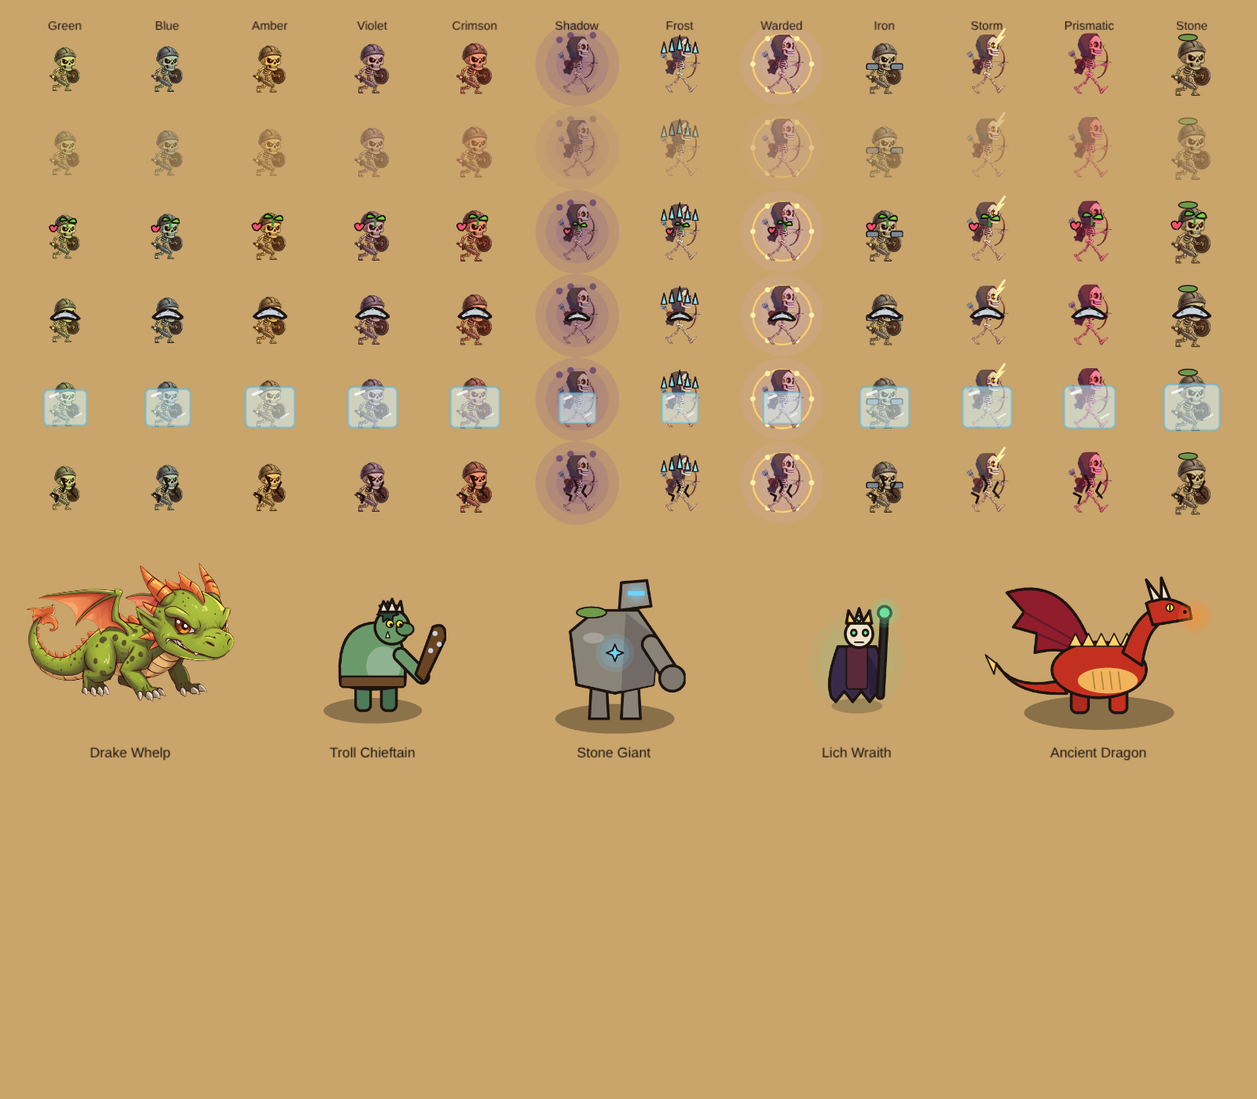
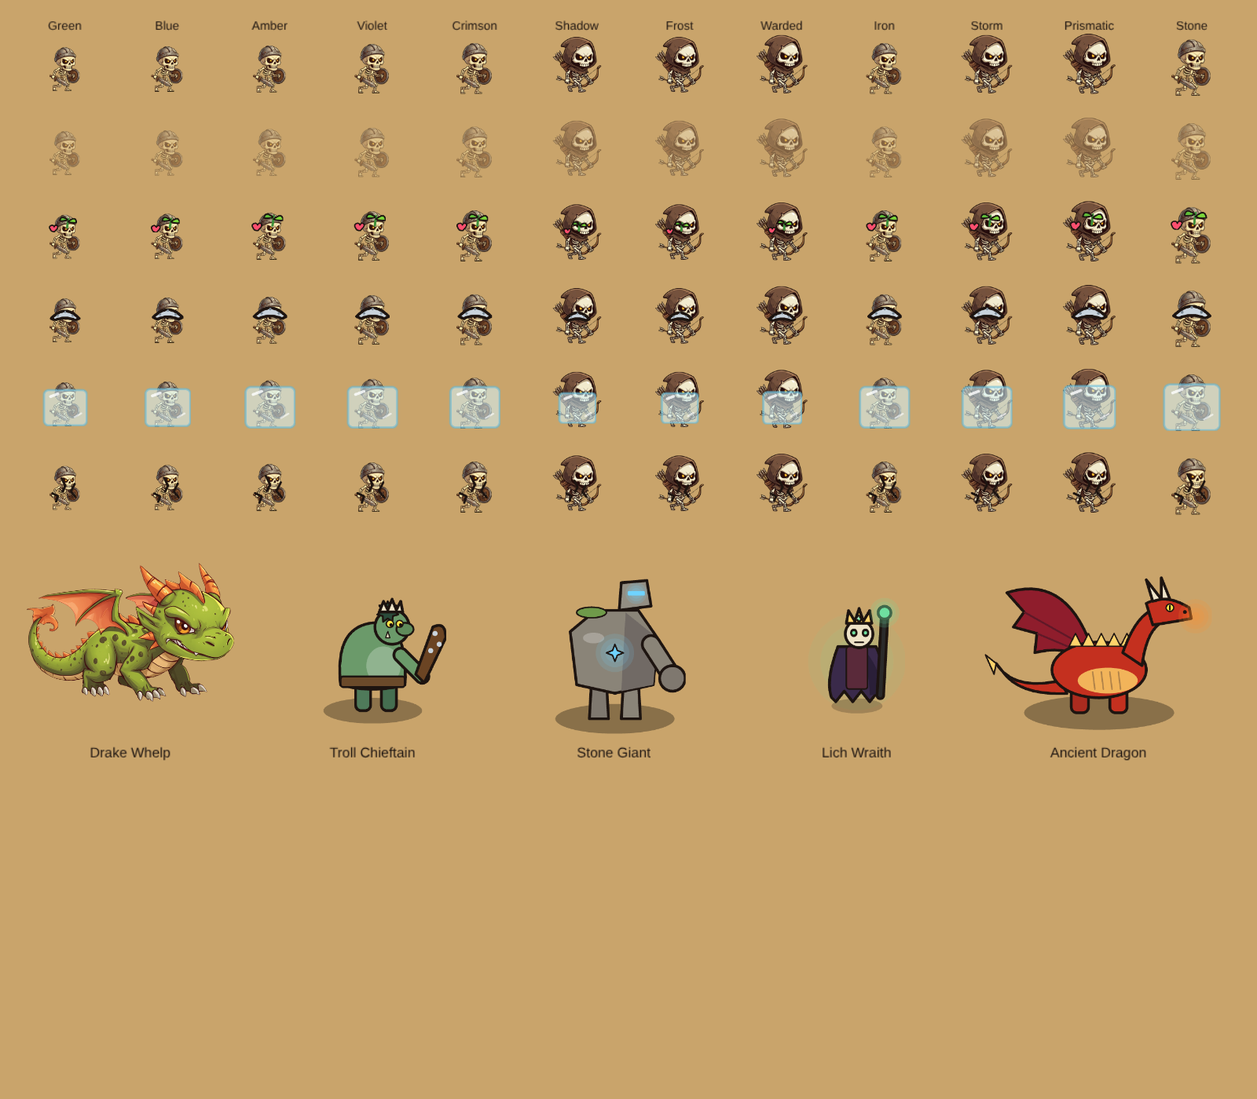
Use the ElevenLabs hooded archer and drop per-layer colours and marks
- skel_archer is now the 6-frame ElevenLabs strip (same cartoon finish as
  the warrior); the Canva archer is kept as a spare
- Layer colours and immunity marks are off: every skeleton looks like its
  chassis and layers differ only by size. SHOW_LAYER_STYLE in painted.ts
  brings the old ladder and marks back; simulation unchanged
- Tests follow the flag; docs and phone-size previews updated

Claude-Session: https://claude.ai/code/session_01EV4YkKLuxJjZibNcnGfAn5

diff --git a/src/render/art/painted.ts b/src/render/art/painted.ts
@@ -116,23 +116,37 @@ export interface EnemyLook {
 }
 
 /**
+ * Whether layers get their own colour and immunity mark. Off by request: every skeleton looks like
+ * its chassis (sword-and-shield or archer) and the layers differ only by size. Flip to `true` to
+ * bring back the colour ladder and the shadow/frost/ward/iron/storm/prism/stone marks below.
+ */
+export const SHOW_LAYER_STYLE = false;
+
+const look = (chassis: EnemyChassis, height: number, tint: number, mark?: EnemyMark): EnemyLook => ({
+  chassis,
+  height,
+  tint: SHOW_LAYER_STYLE ? tint : 0xffffff,
+  ...(SHOW_LAYER_STYLE && mark ? { mark } : {}),
+});
+
+/**
  * Regular enemies as skeletons. Warriors (sword and shield) are the main line; archers carry the
- * magical and immune layers. Layer colour follows the old slime ladder so players keep their
- * muscle memory; size grows with the layer too.
+ * magical and immune layers. When `SHOW_LAYER_STYLE` is on, layer colour follows the old slime
+ * ladder so players keep their muscle memory; size grows with the layer either way.
  */
 export const ENEMY_LOOKS: Partial<Record<string, EnemyLook>> = {
-  green: { chassis: 'skeleton_warrior', height: 56, tint: 0xdbf7c6 },
-  blue: { chassis: 'skeleton_warrior', height: 58, tint: 0xb8deff },
-  amber: { chassis: 'skeleton_warrior', height: 60, tint: 0xffe1a0 },
-  violet: { chassis: 'skeleton_warrior', height: 63, tint: 0xdec1ff },
-  crimson: { chassis: 'skeleton_warrior', height: 65, tint: 0xffb0b0 },
-  shadow: { chassis: 'skeleton_archer', height: 60, tint: 0xc4b7de, mark: 'shadow' },
-  frost: { chassis: 'skeleton_archer', height: 60, tint: 0xe7f7ff, mark: 'frost' },
-  warded: { chassis: 'skeleton_archer', height: 63, tint: 0xe7cfff, mark: 'ward' },
-  iron: { chassis: 'skeleton_warrior', height: 65, tint: 0xd6dae0, mark: 'iron' },
-  storm: { chassis: 'skeleton_archer', height: 63, tint: 0xf4f4f4, mark: 'bolt' },
-  prismatic: { chassis: 'skeleton_archer', height: 65, tint: 0xffa0d0, mark: 'prism' },
-  stone: { chassis: 'skeleton_warrior', height: 72, tint: 0xd9d6cf, mark: 'stone' },
+  green: look('skeleton_warrior', 56, 0xdbf7c6),
+  blue: look('skeleton_warrior', 58, 0xb8deff),
+  amber: look('skeleton_warrior', 60, 0xffe1a0),
+  violet: look('skeleton_warrior', 63, 0xdec1ff),
+  crimson: look('skeleton_warrior', 65, 0xffb0b0),
+  shadow: look('skeleton_archer', 60, 0xc4b7de, 'shadow'),
+  frost: look('skeleton_archer', 60, 0xe7f7ff, 'frost'),
+  warded: look('skeleton_archer', 63, 0xe7cfff, 'ward'),
+  iron: look('skeleton_warrior', 65, 0xd6dae0, 'iron'),
+  storm: look('skeleton_archer', 63, 0xf4f4f4, 'bolt'),
+  prismatic: look('skeleton_archer', 65, 0xffa0d0, 'prism'),
+  stone: look('skeleton_warrior', 72, 0xd9d6cf, 'stone'),
 };
 
 /** Arrows were painted pointing up-right at ~44 degrees; this turns them to point along +x. */

diff --git a/tests/unit/walkCycle.test.ts b/tests/unit/walkCycle.test.ts
@@ -1,6 +1,6 @@
 import { describe, expect, it } from 'vitest';
 import { ENEMIES } from '../../src/core/data/enemies';
-import { ENEMY_LOOKS, PAINTED_CHASSIS } from '../../src/render/art/painted';
+import { ENEMY_LOOKS, PAINTED_CHASSIS, SHOW_LAYER_STYLE } from '../../src/render/art/painted';
 import { cyclesPerSecond, hueTint, mulTint, stepBob, walkFrame } from '../../src/render/walkCycle';
 
 describe('walk cycle', () => {
@@ -51,9 +51,26 @@ describe('painted enemy looks', () => {
     }
   });
 
-  it('keeps layer colours distinct so tiers stay readable', () => {
-    const tints = Object.values(ENEMY_LOOKS).map((l) => l!.tint);
-    expect(new Set(tints).size).toBe(tints.length);
+  it('keeps layer colours distinct when layer styling is on, and plain when it is off', () => {
+    const looks = Object.values(ENEMY_LOOKS) as NonNullable<(typeof ENEMY_LOOKS)[string]>[];
+    if (SHOW_LAYER_STYLE) {
+      const tints = looks.map((l) => l.tint);
+      expect(new Set(tints).size).toBe(tints.length);
+    } else {
+      for (const l of looks) {
+        expect(l.tint).toBe(0xffffff);
+        expect(l.mark).toBeUndefined();
+      }
+    }
+  });
+
+  it('still grows with the layer so size is the remaining tier cue', () => {
+    const h = (id: string): number => ENEMY_LOOKS[id]!.height;
+    expect(h('green')).toBeLessThan(h('blue'));
+    expect(h('blue')).toBeLessThan(h('amber'));
+    expect(h('amber')).toBeLessThan(h('violet'));
+    expect(h('violet')).toBeLessThan(h('crimson'));
+    expect(h('crimson')).toBeLessThan(h('stone'));
   });
 });
 

diff --git a/docs/ART_PROGRESS.md b/docs/ART_PROGRESS.md
@@ -13,17 +13,17 @@ Plan: `/root/.claude/plans/declarative-napping-pinwheel.md` (merged vertical-sli
 
 ## Spend (cap $18; price is last observed, not guaranteed)
 
-| #                                                                                                                                                                                                                                                                                               | What                                                           | Model                                       | Cost               | Result                                                                                                                        |
-| ----------------------------------------------------------------------------------------------------------------------------------------------------------------------------------------------------------------------------------------------------------------------------------------------- | -------------------------------------------------------------- | ------------------------------------------- | ------------------ | ----------------------------------------------------------------------------------------------------------------------------- |
-| 1                                                                                                                                                                                                                                                                                               | Knight walk strip spike (unsanitised sheet ref)                | gemini-3-pro-image                          | $0.183             | 6 consistent frames; parked in `art/spike/`, not shipped                                                                      |
-|                                                                                                                                                                                                                                                                                                 | 2                                                              | Ranger attack strip (empty hands, 6 frames) | gemini-3-pro-image | $0.183                                                                                                                        | usable; identity/outline consistent |
-| 3                                                                                                                                                                                                                                                                                               | Ranger gear sheet A (3 bows, 3 quivers)                        | gemini-3-pro-image                          | $0.183             | clean, cut to `ranger_gearA`                                                                                                  |
-| 4                                                                                                                                                                                                                                                                                               | Ranger gear sheet B (2 headdresses, 3 arrows, mantle, harness) | gemini-3-pro-image                          | $0.183             | clean, cut to `ranger_gearB` (arrows painted diagonal, corrected in code)                                                     |
-| -                                                                                                                                                                                                                                                                                               | Ranger companions sheet                                        | -                                           | $0                 | **rejected: 429 free_tier_image_limit_reached** (not charged, not retried)                                                    |
-| 5                                                                                                                                                                                                                                                                                               | Skeleton warrior walk strip (text only)                        | gemini-3-pro-image                          | $0.122             | style good, layout wrong (4+2 rows, bald frame); raw kept in `art/spike/`                                                     |
-| 6                                                                                                                                                                                                                                                                                               | Skeleton warrior walk strip retry (frame 2 as reference)       | gemini-3-pro-image                          | $0.183             | usable; shipped as `skel_warrior`                                                                                             |
-| 7                                                                                                                                                                                                                                                                                               | Skeleton archer strip (text only, 2x3 grid)                    | gemini-3-pro-image                          | $0.122             | after the daily reset; 6 consistent frames, nicer style match than Canva; kept as a **spare** (`art/spike/skel_archer_alt.*`) |
-| 8                                                                                                                                                                                                                                                                                               | Skeleton archer, single pose (Canva Magic Design)              | Canva                                       | cost [U]           | one pose x4 copies; **shipped** as `skel_archer` (1 frame) and animated in code with a step bob                               |
+| #                                                                                                                                                                                                                                                                                               | What                                                           | Model                                       | Cost               | Result                                                                                                            |
+| ----------------------------------------------------------------------------------------------------------------------------------------------------------------------------------------------------------------------------------------------------------------------------------------------- | -------------------------------------------------------------- | ------------------------------------------- | ------------------ | ----------------------------------------------------------------------------------------------------------------- |
+| 1                                                                                                                                                                                                                                                                                               | Knight walk strip spike (unsanitised sheet ref)                | gemini-3-pro-image                          | $0.183             | 6 consistent frames; parked in `art/spike/`, not shipped                                                          |
+|                                                                                                                                                                                                                                                                                                 | 2                                                              | Ranger attack strip (empty hands, 6 frames) | gemini-3-pro-image | $0.183                                                                                                            | usable; identity/outline consistent |
+| 3                                                                                                                                                                                                                                                                                               | Ranger gear sheet A (3 bows, 3 quivers)                        | gemini-3-pro-image                          | $0.183             | clean, cut to `ranger_gearA`                                                                                      |
+| 4                                                                                                                                                                                                                                                                                               | Ranger gear sheet B (2 headdresses, 3 arrows, mantle, harness) | gemini-3-pro-image                          | $0.183             | clean, cut to `ranger_gearB` (arrows painted diagonal, corrected in code)                                         |
+| -                                                                                                                                                                                                                                                                                               | Ranger companions sheet                                        | -                                           | $0                 | **rejected: 429 free_tier_image_limit_reached** (not charged, not retried)                                        |
+| 5                                                                                                                                                                                                                                                                                               | Skeleton warrior walk strip (text only)                        | gemini-3-pro-image                          | $0.122             | style good, layout wrong (4+2 rows, bald frame); raw kept in `art/spike/`                                         |
+| 6                                                                                                                                                                                                                                                                                               | Skeleton warrior walk strip retry (frame 2 as reference)       | gemini-3-pro-image                          | $0.183             | usable; shipped as `skel_warrior`                                                                                 |
+| 7                                                                                                                                                                                                                                                                                               | Skeleton archer strip (text only, 2x3 grid)                    | gemini-3-pro-image                          | $0.122             | after the daily reset; 6 consistent frames, nicer style match than Canva; **shipped** as `skel_archer` (6 frames) |
+| 8                                                                                                                                                                                                                                                                                               | Skeleton archer, single pose (Canva Magic Design)              | Canva                                       | cost [U]           | one pose x4 copies; **shipped** as `skel_archer` (1 frame) and animated in code with a step bob                   |
 | Listed total: about $1.16 of the $18 cap (prices are tool estimates; Canva cost is unknown [U]). The account is on ElevenLabs' free plan, so the listed price may not be an actual charge [U]. About 256 of 10,000 ElevenLabs credits remain [A: 1,474 before row 7, minus the 1,218 estimate]. |
 
 ## Status (slice)
@@ -39,12 +39,11 @@ Plan: `/root/.claude/plans/declarative-napping-pinwheel.md` (merged vertical-sli
 
 ## Skeleton enemies (warrior and archer done)
 
-- Regular enemies are now skeletons. `ENEMY_LOOKS` in `src/render/art/painted.ts` maps every regular id to a chassis, layer colour (light tint multiplied over the painting), size and an immunity mark (shadow/ward aura, frost spikes, iron pauldrons, storm bolt, prismatic hue cycle, stone moss). Ids, stats and rounds are unchanged; only display names and blurbs now say Skeleton.
+- Regular enemies are now skeletons. `ENEMY_LOOKS` in `src/render/art/painted.ts` maps every regular id to a chassis and a size. **Layer colours and immunity marks are switched off** (user request, 2026-10-15): every skeleton looks like its chassis and layers differ only by size. `SHOW_LAYER_STYLE` in `painted.ts` is the single switch; the old colour ladder (green, blue, amber, violet, crimson) and marks (shadow/ward aura, frost spikes, iron pauldrons, storm bolt, prismatic hue cycle, stone moss) are kept in the table and come back with `true`. Trade-off: players can no longer read a layer's immunity or colour at a glance; status tints (slow, burn) are unchanged. Ids, stats and rounds are unchanged; only display names and blurbs now say Skeleton.
 - Warrior (sword and shield) is the main line: green to crimson, iron, stone. Archer (bow and arrows) is assigned to shadow, frost, warded, storm and prismatic. This table is one line per enemy and easy to change.
 - Warrior walk strip: `public/assets/painted/skel_warrior.png/json` (6 frames, 82x120 cells), cut by the new `scripts/cut-walk.mjs` (erases the generator's ground line, splits at the emptiest columns, aligns by opaque-pixel centre, shared scale). Playback is paced by speed (`cyclesPerSecond`), frozen when frozen, and hit squash and status tints still apply.
-- **Archer** (`public/assets/painted/skel_archer.png/json`, 1 frame, 91x120): built from a Canva image as chosen. Canva only returns one hero pose (four copies of the same pose this time), so the walk is faked in code: `stepBob` in `src/render/walkCycle.ts` hops, rocks and squashes the single frame twice per cycle, paced by the same speed curve as the warrior. Strips with 2+ frames skip it. Cut with `node scripts/cut-walk.mjs art/spike/canva_archer_try1.png public/assets/painted/skel_archer 4 112 --key=magenta --take=1`.
-- **Style caveat:** the Canva archer is pixel-art-like (grainy edges, blue-grey hood), the ElevenLabs warrior and whelp are clean cartoon. At phone size it reads as a skeleton archer, but it is not the same hand as the warrior.
-- **Spare:** the ElevenLabs archer strip (6-frame real walk, brown hood, glowing eyes, much closer to the warrior) is cut to `art/spike/skel_archer_alt.png/json`. To switch: copy both files over `public/assets/painted/skel_archer.*`. No code change; `walkFrame` handles 6 frames and `stepBob` only runs for 1-frame strips. Raw: `art/spike/skeleton_archer_strip_raw.png`.
+- **Archer** (`public/assets/painted/skel_archer.png/json`, 6 frames, 108x120): the ElevenLabs hooded skeleton archer (real 6-frame walk, brown hood, glowing eyes), swapped in at the user's request. Same clean cartoon finish as the warrior and whelp. Cut with `node scripts/cut-walk.mjs art/spike/skeleton_archer_strip_raw.png art/spike/skel_archer_alt 6 112 --rows=2`.
+- **Spare:** the Canva archer (one pose, pixel-art-like finish) is `art/spike/canva_archer_try1.png`. A single-frame strip is animated in code by `stepBob` (hop, rock, squash), which only runs for 1-frame strips: cut it with `node scripts/cut-walk.mjs art/spike/canva_archer_try1.png public/assets/painted/skel_archer 4 112 --key=magenta --take=1`.
 - Fixed while wiring: the bestiary indexed frame 1 of a 1-frame strip (blank body); it now clamps to the last frame. Verified in `?bestiary` and in a live game with all archer layers spawned (`docs/shots/bestiary_skeleton_tiers.png`).
 - `scripts/cut-walk.mjs` options: `--key=green|magenta`, `--rows=N` (grid sheets), `--take=N` (keep the first N frames), `--ground=Y`.
 - Independent review of the whelp and skeleton code (3 lenses): one confirmed defect, fixed (painted bodies kept animating under the Defeat dialog; they now animate only while the simulation actually moves them, verified in the browser). Also fixed from the unverified list: status tints now multiply the layer colour instead of replacing it, the bestiary whelp faces right like in the game, preloading can no longer hold the loading screen longer than 10 s, README and ART_BIBLE text no longer say slimes or "all art is code". The verifier agents were cut off by an org spend limit, so the other findings (draw-call batching of mesh/shadow sprites, per-walker sprite count, asset requests) are **unverified, not refuted**: gate G2 (performance with painted assets) is still not run.

diff --git a/art/PROVENANCE.md b/art/PROVENANCE.md
@@ -24,5 +24,5 @@ Reference sheet: user-supplied. Excluded design: dual-sword elf (row 2, col 3).
 | Shipped whelp boss sprite (resize of the clean cut with sharp, lanczos3) | n/a | 512x343 PNG of `whelp_menace_cut_clean.png` | 2026-10-14 | n/a | `public/assets/painted/whelp.png`. Drives the first boss slot (id `ogre`, shown as Drake Whelp). Generated-asset licensing remains [U]. |
 | ElevenLabs Creative / gemini-3-pro-image, skeleton warrior walk strip (try 1) | none (text only) | 6-frame walk cycle, chibi skeleton with helmet, round shield, rusty sword, green key | 2026-10-14 | $0.122 (tool estimate) | `art/spike/skeleton_warrior_strip_raw.png` (1376x768). Style and identity good; layout wrong (4+2 rows), frame 1 bald, sword raised in frames 4 and 6. Not usable as a strip; frame 2 used as the reference for the retry. Free-tier image limit had reset. |
 | ElevenLabs Creative / gemini-3-pro-image, skeleton warrior walk strip (try 2) | frame 2 of try 1 (cropped), uploaded as a reference | same warrior, one row of 6 frames, helmet in every frame, shield forward, sword low, green key | 2026-10-14 | $0.183 (tool estimate) | `art/spike/skeleton_warrior_strip_try2_raw.png` (1376x768). One row, consistent character, real walk cycle; the generator drew a 1px ground line, removed by `scripts/cut-walk.mjs`. Cut to `public/assets/painted/skel_warrior.png`. |
-| ElevenLabs Creative / gemini-3-pro-image, skeleton archer walk strip | none (text only) | 6-frame walk, hooded skeleton, bow, quiver, glowing eyes, 2x3 grid on green key | 2026-10-14 | $0.122 (tool estimate) | `art/spike/skeleton_archer_strip_raw.png`. Cut with `--rows=2` to `art/spike/skel_archer_alt.png/json` (spare, not in `public/`). Free-tier limit had reset. |
-| Canva Magic Design skeleton archer (desktop_wallpaper, export PNG) | none (text only) | single skeleton archer drawing a bow on magenta; four copies of one pose | 2026-10-14 | cost [U] | `art/spike/canva_archer_try1.png` (1920x1080). Pink-magenta backdrop and cast shadow removed by the hue key in `scripts/cut-walk.mjs --key=magenta --take=1`; shipped as `public/assets/painted/skel_archer.png` (91x120, 1 frame). Pixel-art-like finish, unlike the cartoon warrior. Licensing [U]. |
+| ElevenLabs Creative / gemini-3-pro-image, skeleton archer walk strip | none (text only) | 6-frame walk, hooded skeleton, bow, quiver, glowing eyes, 2x3 grid on green key | 2026-10-14 | $0.122 (tool estimate) | `art/spike/skeleton_archer_strip_raw.png`. Cut with `--rows=2` to `art/spike/skel_archer_alt.png/json` Shipped as `public/assets/painted/skel_archer.png/json` (648x120, 6 frames of 108x120) on 2026-10-15; the copy in `art/spike/skel_archer_alt.*` is the same file. Free-tier limit had reset. Licensing [U]. |
+| Canva Magic Design skeleton archer (desktop_wallpaper, export PNG) | none (text only) | single skeleton archer drawing a bow on magenta; four copies of one pose | 2026-10-14 | cost [U] | `art/spike/canva_archer_try1.png` (1920x1080). Pink-magenta backdrop and cast shadow removed by the hue key in `scripts/cut-walk.mjs --key=magenta --take=1`; first shipped as a 1-frame `skel_archer` (91x120), replaced by the ElevenLabs strip on 2026-10-15 because its pixel-art-like finish did not match the cartoon warrior. Kept as a spare. Licensing [U]. |
